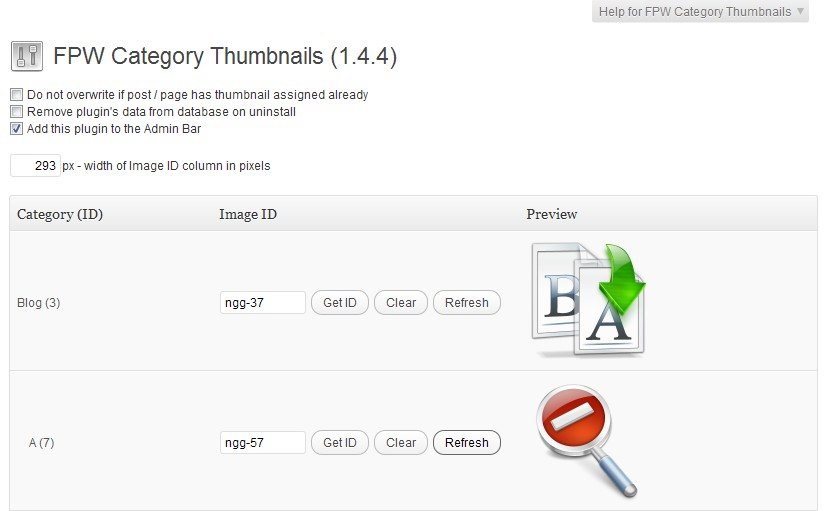
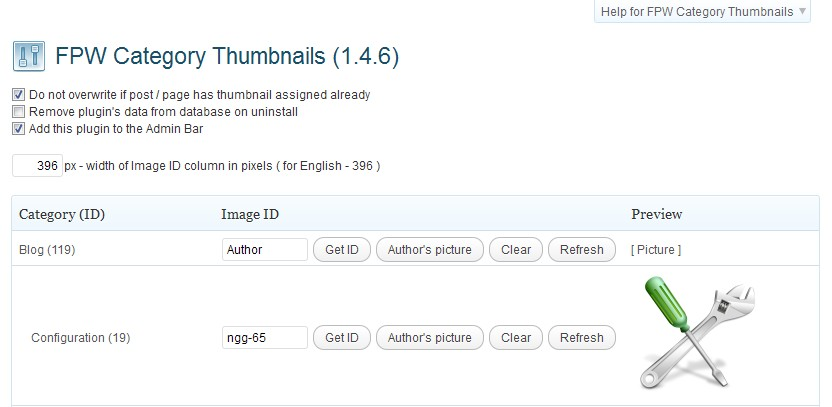
Version 1.4.6 ( authors' pictures )
git-svn-id: https://plugins.svn.wordpress.org/fpw-category-thumbnails/trunk@516839 b8457f37-d9ea-0310-8a92-e5e31aec5664

diff --git a/js/fpw-file-select.js b/js/fpw-file-select.js
@@ -1,1 +1,1 @@
-function fpw_fs_select_item(a,b){var c,d,e;c=jQuery("#"+b);d=jQuery("#"+b+"_preview");e=jQuery("#"+b+"_preview-size").val();d.html("").load(fpw_file_select.ajaxurl,{id:a,size:e,action:"fpw_fs_get_file"});c.val(a);tb_remove();jQuery("html").removeClass("File")}function fpw_fs_get_url_vars(a){var b={};var c=a.replace(/[?&]+([^=&]+)=([^&]*)/gi,function(a,c,d){b[c]=d});return b}function confirmRemove(){msg=fpw_file_select.remove_line_1_1+" <strong>";msg=msg+fpw_file_select.remove_line_1_2+"</strong> ";msg=msg+fpw_file_select.remove_line_1_3+" <strong>";msg=msg+fpw_file_select.remove_line_1_4+"</strong> ";msg=msg+fpw_file_select.remove_line_1_5+" ";msg=msg+fpw_file_select.remove_line_1_6+' "<em>';msg=msg+fpw_file_select.remove_line_1_7+'</em>" <strong>';msg=msg+fpw_file_select.remove_line_1_8+"</strong> ";msg=msg+fpw_file_select.remove_line_1_9+"<br /> <br />";msg=msg+fpw_file_select.apply_line_2;jConfirm(msg,fpw_file_select.confirm_header,function(a){if(a){jQuery("#buttonPressed").val("Remove");jQuery("form[name='fpw_cat_thmb_form']").submit()}else{return false}})}function confirmApply(){msg=fpw_file_select.apply_line_1_1+" <strong>";msg=msg+fpw_file_select.apply_line_1_2+"</strong> ";msg=msg+fpw_file_select.apply_line_1_3+" ";msg=msg+fpw_file_select.apply_line_1_4+' "<em>';msg=msg+fpw_file_select.apply_line_1_5+'"</em> ';msg=msg+fpw_file_select.apply_line_1_6+"<br /> <br />";msg=msg+fpw_file_select.apply_line_2;jConfirm(msg,fpw_file_select.confirm_header,function(a){if(a){jQuery("#buttonPressed").val("Apply");jQuery("form[name='fpw_cat_thmb_form']").submit()}else{return false}})}function confirmUpdate(){jQuery("#buttonPressed").val("Update");jQuery("form[name='fpw_cat_thmb_form']").submit()}jQuery(document).ready(function(a){jQuery("#contextual-help-link").html(fpw_file_select.help_link_text);if(a(".fpw-fs-button").length){a(".fpw-fs-button").click(function(){a("html").addClass("File");tb_show(fpw_file_select.tb_show_title,"media-upload.php?fpw_fs_field="+a(this).siblings("input.fpw-fs-value").attr("id")+"&type=file&TB_iframe=true");return false});a(".fpw-fs-button:first").parents("form").submit(function(){a(".fpw-fs-remove:checked").each(function(){a(this).siblings("input.fpw-fs-value").val("")})})}if(a("body").attr("id")=="media-upload"){var b,c,d,e;var f='<a href="#" class="fpw-fs-insert button-secondary">'+fpw_file_select.text_select_file+"</a>";b=parent.document;c=b.getElementById("TB_iframeContent").src;d=fpw_fs_get_url_vars(c);if("fpw_fs_field"in d){e=a("ul#sidemenu a.current").parent("li").attr("id");a("ul#sidemenu li#tab-type_url").remove();a("p.ml-submit").remove();switch(e){case"tab-type":{a("table.describe tbody tr:not(.submit)").remove();a("table.describe tr.submit td.savesend input").remove();a("table.describe tr.submit td.savesend").prepend(f);break};case"tab-library":{a("#media-items .media-item a.toggle").remove();a("#media-items .media-item").each(function(){a(this).prepend(f)});a("a.fpw-fs-insert").css({display:"block","float":"right",margin:"7px 20px 0 0"});break};case"tab-nextgen":{a("#media-items .media-item a.toggle").remove();a("#media-items .media-item").each(function(){a(this).prepend(f)});a("a.fpw-fs-insert").css({display:"block","float":"right",margin:"7px 20px 0 0"});break}}a("a.fpw-fs-insert").click(function(){var b;if(a(this).parent().attr("class")=="savesend"){b=a(this).siblings(".del-attachment").attr("id");b=b.match(/del_attachment_([0-9]+)/);b=b[1]}else{b=a(this).parent().attr("id");b=b.match(/media\-item\-([0-9]+)/);b=b[1];if(e=="tab-nextgen"){b="ngg-"+b}}parent.fpw_fs_select_item(b,d["fpw_fs_field"]);return false})}}if(a(".btn-for-clear").length){a(".btn-for-clear").click(function(){t=this;id=t.id;id=id.slice(id.search(/clear-for-id-/)+13,id.length);jConfirm(fpw_file_select.clear_line_1,fpw_file_select.confirm_header,function(a){if(a)fpw_fs_select_item(0,"val-for-id-"+id+"-field")});return false})}if(a(".btn-for-refresh").length){a(".btn-for-refresh").click(function(){t=this;id=t.id;id=id.slice(id.search(/refresh-for-id-/)+15,id.length);value=a("#"+"val-for-id-"+id+"-field").attr("value");fpw_fs_select_item(value,"val-for-id-"+id+"-field");return false})}setTimeout(function(){a("div.updated").fadeOut("slow",function(){a("div.updated").remove()})},5e3)})
+function fpw_fs_select_item(a,b){var c,d,e;c=jQuery("#"+b);d=jQuery("#"+b+"_preview");e=jQuery("#"+b+"_preview-size").val();d.html("").load(fpw_file_select.ajaxurl,{id:a,size:e,action:"fpw_fs_get_file"});c.val(a);tb_remove();jQuery("html").removeClass("File")}function fpw_fs_get_url_vars(a){var b={};var c=a.replace(/[?&]+([^=&]+)=([^&]*)/gi,function(a,c,d){b[c]=d});return b}function confirmRemove(){msg=fpw_file_select.remove_line_1_1+" <strong>";msg=msg+fpw_file_select.remove_line_1_2+"</strong> ";msg=msg+fpw_file_select.remove_line_1_3+" <strong>";msg=msg+fpw_file_select.remove_line_1_4+"</strong> ";msg=msg+fpw_file_select.remove_line_1_5+" ";msg=msg+fpw_file_select.remove_line_1_6+' "<em>';msg=msg+fpw_file_select.remove_line_1_7+'</em>" <strong>';msg=msg+fpw_file_select.remove_line_1_8+"</strong> ";msg=msg+fpw_file_select.remove_line_1_9+"<br /> <br />";msg=msg+fpw_file_select.apply_line_2;jConfirm(msg,fpw_file_select.confirm_header,function(a){if(a){jQuery("#buttonPressed").val("Remove");jQuery("form[name='fpw_cat_thmb_form']").submit()}else{return false}})}function confirmApply(){msg=fpw_file_select.apply_line_1_1+" <strong>";msg=msg+fpw_file_select.apply_line_1_2+"</strong> ";msg=msg+fpw_file_select.apply_line_1_3+" ";msg=msg+fpw_file_select.apply_line_1_4+' "<em>';msg=msg+fpw_file_select.apply_line_1_5+'"</em> ';msg=msg+fpw_file_select.apply_line_1_6+"<br /> <br />";msg=msg+fpw_file_select.apply_line_2;jConfirm(msg,fpw_file_select.confirm_header,function(a){if(a){jQuery("#buttonPressed").val("Apply");jQuery("form[name='fpw_cat_thmb_form']").submit()}else{return false}})}function confirmUpdate(){jQuery("#buttonPressed").val("Update");jQuery("form[name='fpw_cat_thmb_form']").submit()}jQuery(document).ready(function(a){jQuery("#contextual-help-link").html(fpw_file_select.help_link_text);if(a(".fpw-fs-button").length){a(".fpw-fs-button").click(function(){a("html").addClass("File");tb_show(fpw_file_select.tb_show_title,"media-upload.php?fpw_fs_field="+a(this).siblings("input.fpw-fs-value").attr("id")+"&type=file&TB_iframe=true");return false});a(".fpw-fs-button:first").parents("form").submit(function(){a(".fpw-fs-remove:checked").each(function(){a(this).siblings("input.fpw-fs-value").val("")})})}if(a("body").attr("id")=="media-upload"){var b,c,d,e;var f='<a href="#" class="fpw-fs-insert button-secondary">'+fpw_file_select.text_select_file+"</a>";b=parent.document;c=b.getElementById("TB_iframeContent").src;d=fpw_fs_get_url_vars(c);if("fpw_fs_field"in d){e=a("ul#sidemenu a.current").parent("li").attr("id");a("ul#sidemenu li#tab-type_url").remove();a("p.ml-submit").remove();switch(e){case"tab-type":{a("table.describe tbody tr:not(.submit)").remove();a("table.describe tr.submit td.savesend input").remove();a("table.describe tr.submit td.savesend").prepend(f);break};case"tab-library":{a("#media-items .media-item a.toggle").remove();a("#media-items .media-item").each(function(){a(this).prepend(f)});a("a.fpw-fs-insert").css({display:"block","float":"right",margin:"7px 20px 0 0"});break};case"tab-nextgen":{a("#media-items .media-item a.toggle").remove();a("#media-items .media-item").each(function(){a(this).prepend(f)});a("a.fpw-fs-insert").css({display:"block","float":"right",margin:"7px 20px 0 0"});break}}a("a.fpw-fs-insert").click(function(){var b;if(a(this).parent().attr("class")=="savesend"){b=a(this).siblings(".del-attachment").attr("id");b=b.match(/del_attachment_([0-9]+)/);b=b[1]}else{b=a(this).parent().attr("id");b=b.match(/media\-item\-([0-9]+)/);b=b[1];if(e=="tab-nextgen"){b="ngg-"+b}}parent.fpw_fs_select_item(b,d["fpw_fs_field"]);return false})}}if(a(".btn-for-author").length){a(".btn-for-author").click(function(){t=this;id=t.id;id=id.slice(id.search(/author-for-id-/)+14,id.length);fpw_fs_select_item("Author","val-for-id-"+id+"-field")})}if(a(".btn-for-clear").length){a(".btn-for-clear").click(function(){t=this;id=t.id;id=id.slice(id.search(/clear-for-id-/)+13,id.length);fpw_fs_select_item(0,"val-for-id-"+id+"-field")})}if(a(".btn-for-refresh").length){a(".btn-for-refresh").click(function(){t=this;id=t.id;id=id.slice(id.search(/refresh-for-id-/)+15,id.length);value=a("#"+"val-for-id-"+id+"-field").attr("value");fpw_fs_select_item(value,"val-for-id-"+id+"-field");return false})}setTimeout(function(){a("div.updated").fadeOut("slow",function(){a("div.updated").remove()})},5e3)})

diff --git a/js/fpw-file-select.dev.js b/js/fpw-file-select.dev.js
@@ -138,16 +138,23 @@ jQuery( document ).ready( function( $ ) {
 	
 	}
 
+	// Actions for screens with the author button
+	if ( $( '.btn-for-author' ).length ) {
+		$( '.btn-for-author' ).click( function() {
+			t = this;
+			id = t.id;
+			id = id.slice( ( id.search( /author-for-id-/ ) + 14 ), id.length );
+			fpw_fs_select_item( 'Author', 'val-for-id-' + id + '-field' );
+		});
+	}
+
 	// Actions for screens with the clear button
 	if ( $( '.btn-for-clear' ).length ) {
 		$( '.btn-for-clear' ).click( function() {
 			t = this;
 			id = t.id;
 			id = id.slice( ( id.search( /clear-for-id-/ ) + 13 ), id.length );
-			jConfirm(fpw_file_select.clear_line_1, fpw_file_select.confirm_header, function(r) {
-				if ( r ) fpw_fs_select_item( 0, 'val-for-id-' + id + '-field' );
-			});
-			return false;
+			fpw_fs_select_item( 0, 'val-for-id-' + id + '-field' );
 		});
 	}
 

diff --git a/classes/fpw-category-thumbnails.class.php b/classes/fpw-category-thumbnails.class.php
@@ -246,6 +246,7 @@ class fpwCategoryThumbnails {
 				if ( strlen( $v ) > 0 ) {
 					if ( ctype_digit( $v ) ) {
 						if ( strlen( $v ) > 1 ) $v = ltrim( $v, '0' );
+					} elseif ( 'Author' === $v ) {
 					} else {
 						if ( 'ngg-' == substr( $v, 0, 4 ) ) {
 							$v = 'ngg-' . ltrim( substr( $v, 4 ), '0' );
@@ -387,7 +388,7 @@ class fpwCategoryThumbnails {
 
 		//	width of Image ID column
 		echo '<br /><input type="text" name="cwidth" size="3" maxlength="3" value="' . $this->pluginOptions[ 'width' ] . '" style="text-align: right">px - ';
-		echo __( 'width of Image ID column in pixels', 'fpw-fct' ) . '<br /><br />';
+		echo __( 'width of Image ID column in pixels ( for English - 396 )', 'fpw-fct' ) . '<br /><br />';
 
 		// start of the table
 		echo '<table class="widefat">';
@@ -451,6 +452,7 @@ class fpwCategoryThumbnails {
 		<td style="vertical-align: middle;"><div>
 			<input type="text" size="10" maxlength="10" value="<?php echo esc_attr( $value ); ?>" name="<?php echo esc_attr( $name ); ?>" id="<?php echo esc_attr( $name ); ?>" class="fpw-fs-value" />
 			<input type="button" class="button-secondary fpw-fs-button" title="<?php echo __( 'fetches image ID from media library', 'fpw-fct' ); ?>" value="<?php echo __( 'Get ID', 'fpw-fct' ); ?>" />
+			<input type="button" class="button-secondary btn-for-author" title="<?php echo __( 'will use author\'s picture as a thumbnail', 'fpw-fct' ); ?>" id="author-for-id-<?php echo $catid; ?>" value="<?php echo __( 'Author\'s picture', 'fpw-fct' ); ?>" />
 			<input class="button-secondary btn-for-clear" title="<?php echo __( 'clears \'Image ID\' input value and \'Preview\' area', 'fpw-fct' ); ?>" id="clear-for-id-<?php echo $catid; ?>" type="button" value="<?php echo __( 'Clear', 'fpw-fct' ); ?>" />		
 			<input class="button-secondary btn-for-refresh" title="<?php echo __( 'refreshes \'Preview\' area', 'fpw-fct' ); ?>" id="refresh-for-id-<?php echo $catid; ?>" type="button" value="<?php echo __( 'Refresh', 'fpw-fct' ); ?>" />		
 			<input type="hidden" value="<?php echo esc_attr( $preview_size ); ?>" name="<?php echo esc_attr( $name ); ?>_preview-size" id="<?php echo esc_attr( $name ); ?>_preview-size" class="fpw-fs-preview-size" />
@@ -461,6 +463,8 @@ class fpwCategoryThumbnails {
 				if ( $value ) {
 					if ( '0' == $value ) {
 						echo '';
+					} elseif ( 'Author' === $value ) {
+						echo '[ ' . __( 'Picture', 'fpw-fct' ) . ' ]';
 					} else {
 						if ( ( 'ngg-' == substr( $value, 0, 4 ) ) && class_exists( 'nggdb' ) ) {
 							$id = substr( $value, 4 );
@@ -506,7 +510,7 @@ class fpwCategoryThumbnails {
 				$opt = array( 
 					'clean'		=> FALSE,
 					'donotover' => FALSE,
-					'width'		=> '293' );
+					'width'		=> '396' );
 			}
 		} else {
 			if ( !array_key_exists( 'clean', $opt ) || !is_bool( $opt[ 'clean' ] ) ) { 
@@ -519,7 +523,7 @@ class fpwCategoryThumbnails {
 			}
 			if ( !array_key_exists( 'width', $opt ) || !ctype_digit( $opt[ 'width' ] ) ) { 
 				$needs_update = TRUE;
-				$opt[ 'width' ] = '293';
+				$opt[ 'width' ] = '436';
 			}
 			if ( '3.1' <= $this->wpVersion ) 
 				if ( !array_key_exists( 'abar', $opt ) || !is_bool( $opt[ 'abar' ] ) ) { 
@@ -555,20 +559,77 @@ class fpwCategoryThumbnails {
 					//	in case of a new post we have to ignore setting of $do_notover flag
 					//	as the thumbnail of default category will be there already
 					if ( array_key_exists( $c->cat_ID, $map ) )
-						update_post_meta( $post_id, '_thumbnail_id', $map[ $c->cat_ID ] );
+						if ( $map[ $c->cat_ID ] === 'Author' ) {
+							$auth_pic_id = $this->GetAuthorsPictureID( $post->post_author );
+							if ( '0' != $auth_pic_id ) 
+								update_post_meta( $post_id, '_thumbnail_id', $auth_pic_id );
+						} else { 
+							update_post_meta( $post_id, '_thumbnail_id', $map[ $c->cat_ID ] );
+						}
 				} else {
 					//	modified post - observe $do_notover flag
 					if ( array_key_exists( $c->cat_ID, $map ) ) 
 						if ( !( $do_notover ) ) {
-							update_post_meta( $post_id, '_thumbnail_id', $map[ $c->cat_ID ] );
-						} else {
-							if ( '' == $thumb_id ) 
+							if ( $map[ $c->cat_ID ] === 'Author' ) {
+								$auth_pic_id = $this->GetAuthorsPictureID( $post->post_author );
+								if ( '0' != $auth_pic_id )
+									 update_post_meta( $post_id, '_thumbnail_id', $auth_pic_id );
+							} else {
 								update_post_meta( $post_id, '_thumbnail_id', $map[ $c->cat_ID ] );
+							}
+						} else {
+							if ( '' == $thumb_id )
+								if ( $map[ $c->cat_ID ] === 'Author' ) {
+									 $auth_pic_id = $this->GetAuthorsPictureID( $post->post_author );
+									 if ( '0' != $auth_pic_id )
+									 	update_post_meta( $post_id, '_thumbnail_id', $auth_pic_id );
+								} else {
+									update_post_meta( $post_id, '_thumbnail_id', $map[ $c->cat_ID ] );
+								}
 						}
 				}
 				$thumb_id = get_post_meta( $post_id, '_thumbnail_id', TRUE );
   			}
 		}
+	}
+	
+	//	Get author's picture id - helper function
+	private function getAuthorsPictureID( $author_id ) {
+		global $wpdb;
+		$pic_id = 0;
+		$all_media = $wpdb->get_results( "SELECT DISTINCT * FROM " . $wpdb->prefix . "posts " .
+			"WHERE post_type = 'attachment' AND guid LIKE '%author_" . $author_id . ".jpg%' ORDER " .
+			"BY post_date DESC" );
+		if ( 0 < count( $all_media ) ) {
+			$obj = $all_media[0];
+			$pic_id	= $obj->ID;
+		} else {
+			$active_plugins = get_option( 'active_plugins' );
+			$length = count( $active_plugins );
+			$nextGenActive = FALSE;
+			$i = 0;
+			while ( $i < $length ) {
+				if ( 0 < strpos( $active_plugins[ $i ], 'nggallery.php' ) ) {
+					$nextGenActive = TRUE;
+					$i = $length;
+				}
+				$i++;
+			}
+			if ( $nextGenActive ) {
+				$tmp = $wpdb->get_results( "SELECT DISTINCT * FROM " . $wpdb->prefix . "ngg_gallery WHERE slug = 'authors'" );
+				if ( 0 < count( $tmp ) ) {
+					$obj = $tmp[0];
+					$galleryID = $obj->gid;
+					$tmp = $wpdb->get_results( "SELECT DISTINCT * FROM " . $wpdb->prefix . "ngg_pictures " .
+						"WHERE galleryid = " . $galleryID . " AND filename LIKE '%" . $author_id . ".jpg%'" );
+					if ( 0 < count( $tmp ) ) {
+						$obj = $tmp[0];
+						$pic_id = 'ngg-' . $obj->pid;
+					}
+				}
+			}
+		}	
+		return $pic_id;
 	}	
 	 
 }

diff --git a/help/help.php b/help/help.php
@@ -46,9 +46,13 @@
 						__( 'Get ID', 'fpw-fct' ) . '" />' . '</td><td style="text-align: justify; vertical-align: middle; border: 0; padding: 2px;">' .  
 						__( 'will call \'media upload\' overlay and on return will populate \'Image ID\' input box and \'Preview\' area ( AJAX - without reloading screen )', 'fpw-fct' ) . 
 						'</td></tr><tr><td style="text-align: left; vertical-align: middle; border: 0; padding: 2px;">' . 
+						'<input type="button" class="button-secondary" title="' . __( 'Inactive button - presentation only', 'fpw-fct' ) . '" value="' .
+						__( 'Author\'s picture', 'fpw-fct' ) . '" /></td><td style="text-align: justify; vertical-align: middle; border: 0; padding: 2px;">' .
+						__( 'will assign author\'s picture as a thumbnail for the category', 'fpw-fct' ) . 
+						'</td></tr><tr><td style="text-align: left; vertical-align: middle; border: 0; padding: 2px;">' .
 						'<input type="button" class="button-secondary" title="' . __( 'Inactive button - presentation only', 'fpw-fct' ) . '" value="' . 
 						__( 'Clear', 'fpw-fct' ) . '" /></td><td style="text-align: justify; vertical-align: middle; border: 0; padding: 2px;">' . 
-						__( 'if confirmed it will enter \'0\' as image ID and clear \'Preview\' area ( AJAX - without reloading screen )', 'fpw-fct' ) . 
+						__( 'will enter \'0\' as image ID and clear \'Preview\' area ( AJAX - without reloading screen )', 'fpw-fct' ) . 
 						'</td></tr><tr><td style="text-align: left; vertical-align: middle; border: 0; padding: 2px;">' . 
 						'<input type="button" class="button-secondary" title="' . __( 'Inactive button - presentation only', 'fpw-fct' ) . '" value="' . 
 						__( 'Refresh', 'fpw-fct' ) . '" /></td><td style="text-align: justify; vertical-align: middle; border: 0; padding: 2px;">' . 
@@ -77,7 +81,15 @@
 						__( 'Question:', 'fpw-fct' ) . '</strong> ' . 
 						__( 'I\'ve entered ID of a picture from NextGen Gallery and thumbnail doesn\'t show.', 'fpw-fct' ) . '<br><strong>' . 
 						__( 'Answer:', 'fpw-fct' ) . '</strong> ' . 
-						__( 'IDs from NextGen Gallery must be entered with ngg- prefix, so ID 230 should be entered as ngg-230.', 'fpw-fct' ) . '</p>' . 
+						__( 'IDs from NextGen Gallery must be entered with ngg- prefix, so ID 230 should be entered as ngg-230.', 'fpw-fct' ) . 
+						'<br /><br /><strong>' . 
+						__( 'Question:', 'fpw-fct' ) . '</strong> ' . 
+						__( 'What is required to use authors\' pictures as thumbnails?', 'fpw-fct' ) . '<br><strong>' . 
+						__( 'Answer:', 'fpw-fct' ) . '</strong> ' . 
+						__( 'Upload authors\' pictures into media library or NextGen gallery.', 'fpw-fct' ) . ' ' . 
+						__( 'File names of authors\' pictures in media library must follow this naming convention: \'autor_id.jpg\' where \'id\' is author\'s user id. ', 'fpw-fct' ) . ' ' . 
+						__( 'File names of authors\' pictures in NextGen gallery must follow this naming convention: \'id.jpg\' where \'id\' is author\'s user id.', 'fpw-fct' ) . ' ' .
+						__( 'The name of NextGen gallery must be \'authors\'.', 'fpw-fct' ) . '</p>' . 
 						'<p style="font-size: larger">' . __( 'More information', 'fpw-fct' ) . '</p>' . 
 						'<blockquote><a href="http://fw2s.com/2010/10/14/fpw-category-thumbnails-plugin/" target="_blank">' . __( 'Plugin\'s site', 'fpw-fct' ) . '</a></blockquote>' . 
 						'<p style="font-size: larger">' . __( 'Support', 'fpw-fct' ) . '</p>' . 

diff --git a/help/help33.php b/help/help33.php
@@ -52,9 +52,13 @@
 					__( 'Get ID', 'fpw-fct' ) . '" />' . '</td><td style="text-align: justify; vertical-align: middle;">' .  
 					__( 'will call \'media upload\' overlay and on return will populate \'Image ID\' input box and \'Preview\' area ( AJAX - without reloading screen )', 'fpw-fct' ) . 
 					'</td></tr><tr><td style="text-align: left; vertical-align: middle;">' . 
+					'<input type="button" class="button-secondary" title="' . __( 'Inactive button - presentation only', 'fpw-fct' ) . '" value="' .
+					__( 'Author\'s picture', 'fpw-fct' ) . '" />' . '</td><td style="text-align: justify; vertical-align: middle;">' .
+					__( 'will assign author\'s picture as a thumbnail for the category', 'fpw-fct' ) .
+					'</td></tr><tr><td style="text-align: left; vertical-align: middle;">' .  
 					'<input type="button" class="button-secondary" title="' . __( 'Inactive button - presentation only', 'fpw-fct' ) . '" value="' . 
 					__( 'Clear', 'fpw-fct' ) . '" /></td><td style="text-align: justify; vertical-align: middle;">' . 
-					__( 'if confirmed it will enter \'0\' as image ID and clear \'Preview\' area ( AJAX - without reloading screen )', 'fpw-fct' ) . 
+					__( 'will enter \'0\' as image ID and clear \'Preview\' area ( AJAX - without reloading screen )', 'fpw-fct' ) . 
 					'</td></tr><tr><td style="text-align: left; vertical-align: middle;">' . 
 					'<input type="button" class="button-secondary" title="' . __( 'Inactive button - presentation only', 'fpw-fct' ) . '" value="' . 
 					__( 'Refresh', 'fpw-fct' ) . '" /></td><td style="text-align: justify; vertical-align: middle;">' . 
@@ -87,7 +91,14 @@
 					__( 'Question:', 'fpw-fct' ) . '</strong> ' . 
 					__( 'I\'ve entered ID of a picture from NextGen Gallery and thumbnail doesn\'t show.', 'fpw-fct' ) . '<br><strong>' . 
 					__( 'Answer:', 'fpw-fct' ) . '</strong> ' . 
-					__( 'IDs from NextGen Gallery must be entered with ngg- prefix, so ID 230 should be entered as ngg-230.', 'fpw-fct' ) . '</blickquote>'; 
+					__( 'IDs from NextGen Gallery must be entered with ngg- prefix, so ID 230 should be entered as ngg-230.', 'fpw-fct' ) . '<br /><br /><strong>' .
+					__( 'Question:', 'fpw-fct' ) . '</strong> ' . 
+					__( 'What is required to use authors\' pictures as thumbnails?', 'fpw-fct' ) . '<br><strong>' . 
+					__( 'Answer:', 'fpw-fct' ) . '</strong> ' . 
+					__( 'Upload authors\' pictures into media library or NextGen gallery.', 'fpw-fct' ) . ' ' . 
+					__( 'File names of authors\' pictures in media library must follow this naming convention: \'autor_id.jpg\' where \'id\' is author\'s user id. ', 'fpw-fct' ) . ' ' . 
+					__( 'File names of authors\' pictures in NextGen gallery must follow this naming convention: \'id.jpg\' where \'id\' is author\'s user id.', 'fpw-fct' ) . ' ' .
+					__( 'The name of NextGen gallery must be \'authors\'.', 'fpw-fct' ) . '</blickquote>'; 
 			
 		$current_screen->add_help_tab( array(
    			'title'   => __( 'FAQ', 'fpw-fct' ),

diff --git a/fpw-category-thumbnails.php b/fpw-category-thumbnails.php
@@ -3,7 +3,7 @@
 Plugin Name: FPW Category Thumbnails
 Description: Sets post/page thumbnail based on category.
 Plugin URI: http://fw2s.com/2010/10/14/fpw-category-thumbnails-plugin/
-Version: 1.4.5
+Version: 1.4.6
 Author: Frank P. Walentynowicz
 Author URI: http://fw2s.com/
 
@@ -25,6 +25,6 @@ Foundation, Inc., 51 Franklin St, Fifth Floor, Boston, MA  02110-1301  USA
 
 if ( is_admin() ) {
 	require_once dirname(__FILE__) . '/classes/fpw-category-thumbnails.class.php';
-	new fpwCategoryThumbnails( dirname(__FILE__), '1.4.5' );
+	new fpwCategoryThumbnails( dirname(__FILE__), '1.4.6' );
 }
 ?>

diff --git a/ajax/fpwfctajax.php b/ajax/fpwfctajax.php
@@ -7,6 +7,8 @@
 			$h = $picture->meta_data['thumbnail']['height'];
 			$pic = '<img width="' . $w . '" height="' . $h . '" src="' . $pic . '" />';
 			echo $pic;
+		} elseif ( 'Author' === $_REQUEST['id'] ) {
+			echo '[ ' . __( 'Picture', 'fpw-fct' ) . ' ]';
 		} else {
 			if ( wp_attachment_is_image( $_REQUEST['id'] ) ) {
 				echo wp_get_attachment_image( $_REQUEST['id'], $_REQUEST['size'] );
